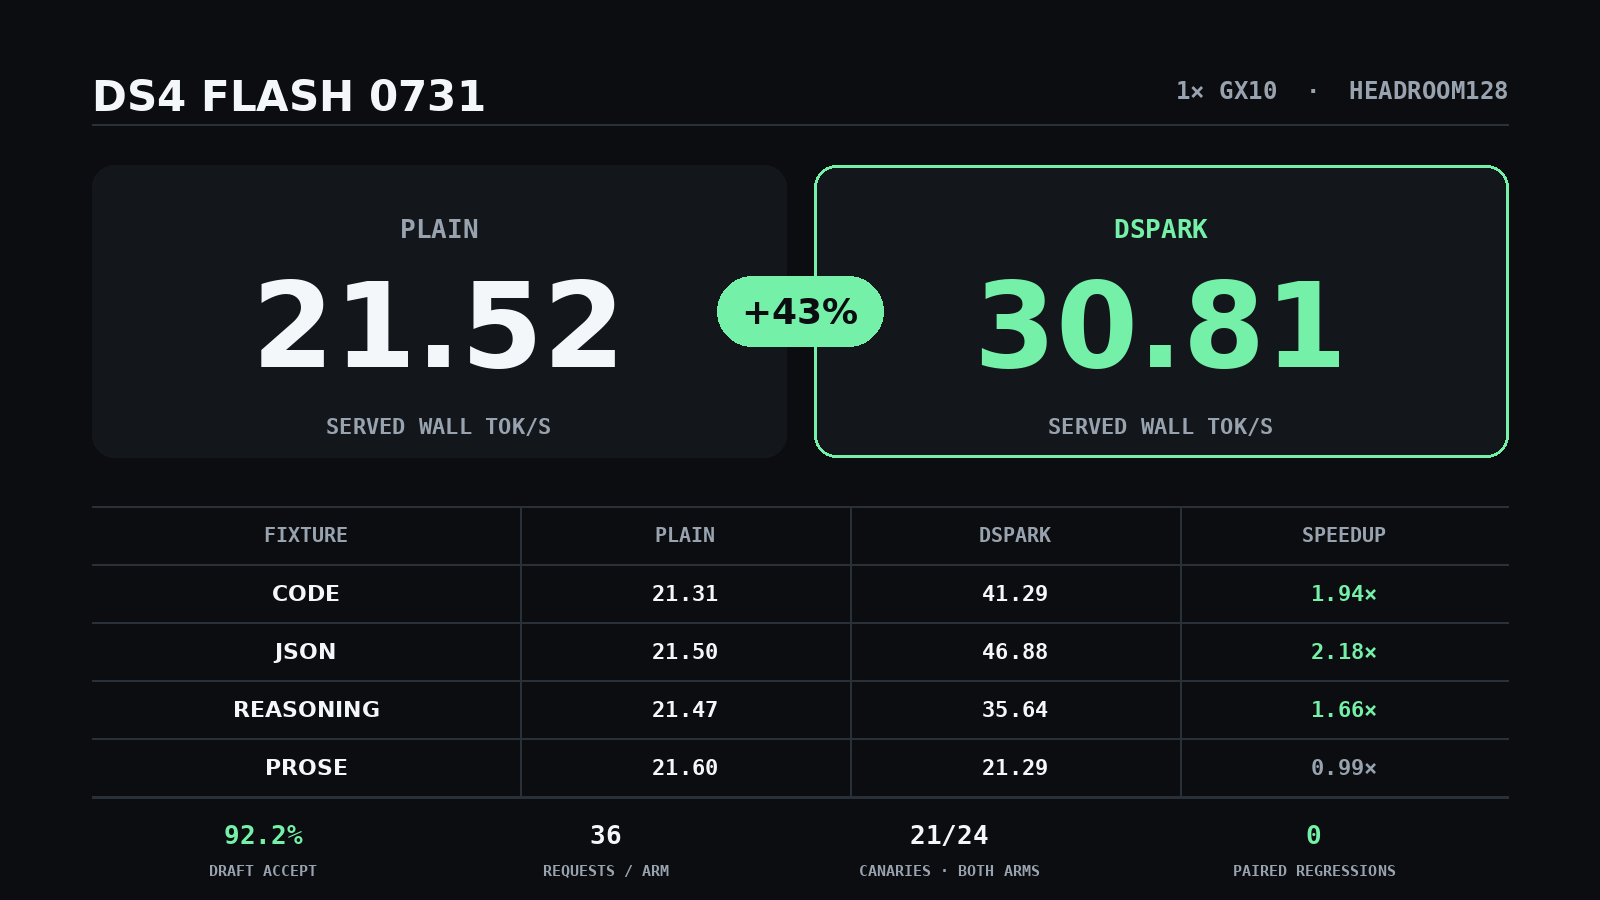
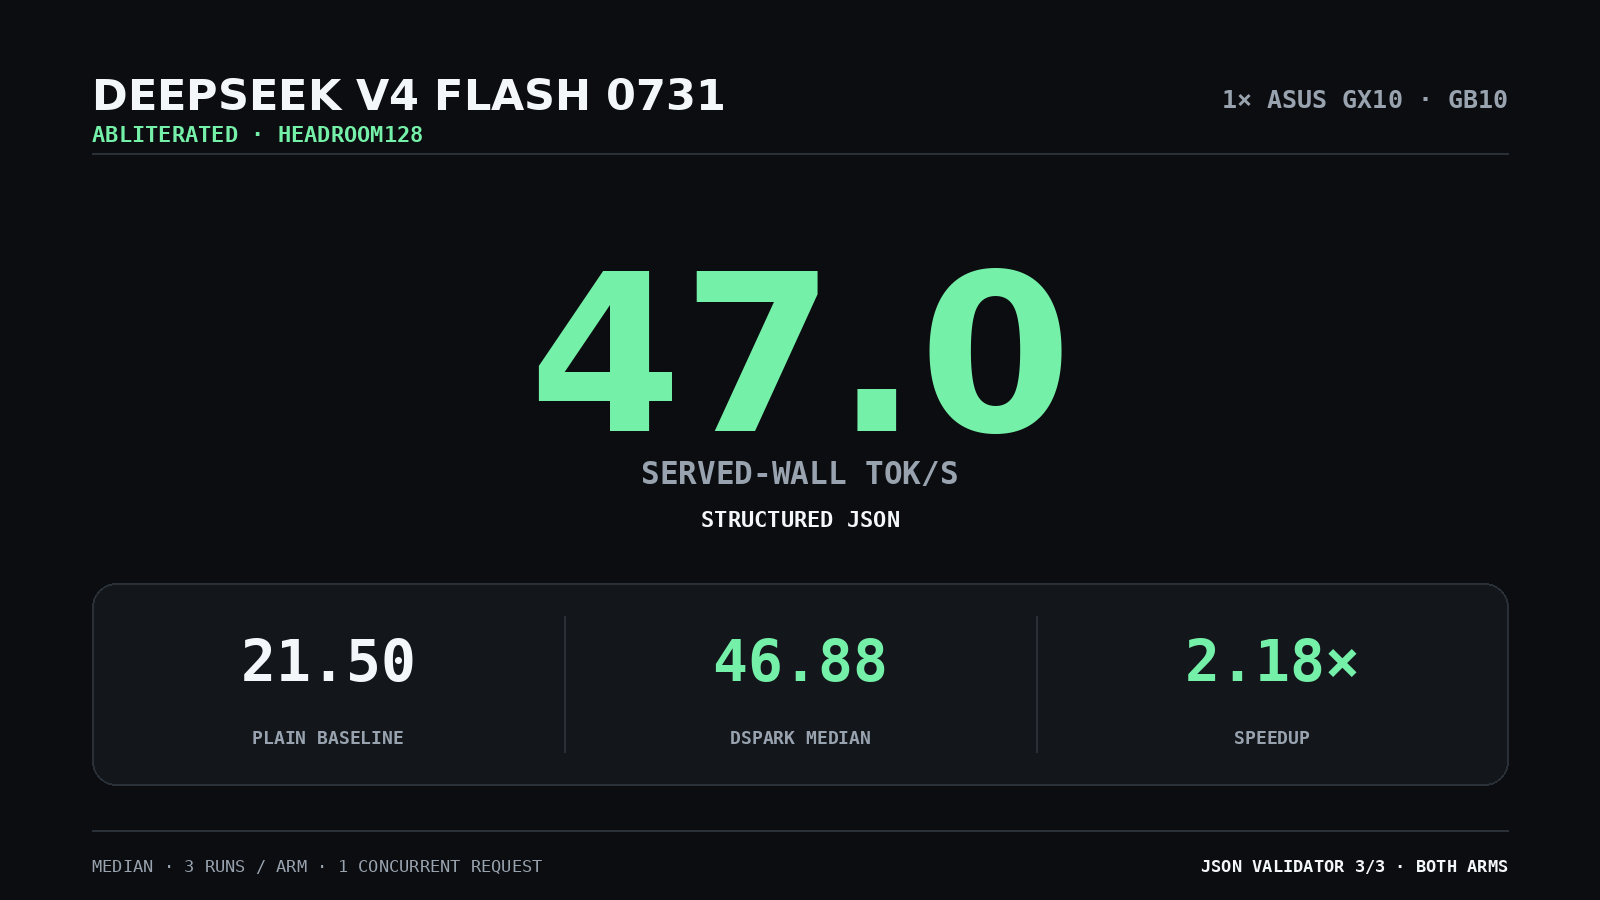
Lead with 47 tok/s abliterated GX10 result

diff --git a/README.md b/README.md
@@ -1,52 +1,43 @@
-# DS4 Flash 0731 on one GX10
+# DeepSeek V4 Flash 0731 Abliterated at 47 tok/s on one GX10
 
-A matched serving pilot for the exact `apetersson/DeepSeek-V4-Flash-0731-Abliterated-DS4-Headroom128` target on one NVIDIA GB10.
+![DeepSeek V4 Flash 0731 Abliterated benchmark](card.png)
+
+**Best measured result: 46.88 served-wall tok/s median, rounded to 47 tok/s, versus a 21.50 tok/s plain baseline. That is 2.18x faster.**
+
+The comparison uses the exact same abliterated Headroom128 checkpoint, Entrpi `ds4` runtime, request payloads, sampler, and hardware. The only treatment is DSpark speculative decoding.
 
 ## Result
 
-Entrpi `ds4` v0.6.2 plus the pinned 0731 Q2K/Q8 DSpark drafter increased token-weighted served-wall throughput from **21.52 to 30.81 tok/s**, a **1.43x** gain.
+| | Plain baseline | DSpark |
+|---|---:|---:|
+| Median served-wall throughput | 21.50 tok/s | **46.88 tok/s** |
+| Three measured runs | 21.52, 21.50, 21.50 | **46.88, 46.69, 47.03** |
+| Structured-output validator | 3/3 passed | **3/3 passed** |
 
-Across the four frozen speed fixtures, the geometric-mean gain was **1.62x**.
+- Hardware: one ASUS GX10 with NVIDIA GB10
+- Workload: structured JSON generation
+- Concurrency: one request
+- Repetitions: three measured runs per arm after warm-up
+- Sampling: temperature 0
+- Metric: completion tokens divided by non-streaming request wall time
+- Scope: served-wall throughput, not isolated kernel throughput
 
-| Fixture | Plain | DSpark | Speedup |
-|---|---:|---:|---:|
-| Code | 21.31 tok/s | 41.29 tok/s | 1.94x |
-| Structured JSON | 21.50 tok/s | 46.88 tok/s | 2.18x |
-| Reasoning | 21.47 tok/s | 35.64 tok/s | 1.66x |
-| Prose | 21.60 tok/s | 21.29 tok/s | 0.99x |
-
-The reported speed is `completion_tokens / non-streaming request wall time`. It is served-wall throughput, not isolated decode-kernel throughput.
-
-## Quality verdict
-
-- **36/36 request payload hashes matched between arms.**
-- **12/12 speed outputs passed deterministic semantic validators in both arms.**
-- **21/24 quality canaries passed in both arms.**
-- **0 paired quality regressions.**
-- **24/36 paired outputs were byte-identical.**
-
-The absolute 23/24 quality gate did not pass because this quantized target returned the same wrong arithmetic answer, `16529`, in all three plain and all three DSpark repetitions. This blocks a claim that the model passed the absolute canary suite. It does not show a DSpark regression.
-
-The defensible conclusion is:
-
-> DSpark materially accelerated the exact abliterated Headroom128 target on one GX10 with measured task-quality parity. This is not a universal losslessness claim.
+`47 tok/s` is the rounded median. The fastest measured run was `47.03 tok/s`.
 
 ## Exact stack
 
-### Target
+### Abliterated target
 
 - Repository: `apetersson/DeepSeek-V4-Flash-0731-Abliterated-DS4-Headroom128`
 - Revision: `08f6c6225ab4d29a735ab7d48d46bd0a3a767a07`
 - File: `DeepSeek-V4-Flash-0731-Abliterated-DS4-Headroom128.gguf`
-- Bytes: `86,720,111,552`
[1 lines of base64/hex data omitted]
 
-### Drafter
+### DSpark drafter
 
 - Repository: `bleysg/DeepSeek-V4-Flash-DSpark-drafter-GGUF`
 - Revision: `81c6fdd38f9582da45ba27f0ed7b63bcd3ea3b62`
 - File: `DSpark-drafter-Q2K-Q8-0731.gguf`
-- Bytes: `6,971,241,504`
[1 lines of base64/hex data omitted]
 
 ### Runtime
@@ -59,35 +50,12 @@ The defensible conclusion is:
 - Context: `32,768`
 - Continuous banks: `2`
 - Prefill chunk: `1,024`
-- Memory floor: `6 GiB`
 
-The target repository's bundled abliterated support GGUF uses the older DS4 metadata and tensor-name contract. It failed the v0.6.2 standalone validator before inference. The primary run therefore used the pinned clean 0731 drafter above. The target still verified and produced every final token.
-
-## DSpark behavior
-
-Across the measured run and its warm-ups:
-
-- Draft hits: **5,534 / 6,001**
-- Sampled acceptance: **92.2%**
-- Terminal quenches: **7**
-
-The quench policy kept the low-acceptance prose fixture effectively flat at `0.99x` instead of forcing a broad regression.
-
-## Safety
-
-| Arm | Minimum MemAvailable | Maximum swap growth | Incident |
-|---|---:|---:|---|
-| Plain | 18.87 GiB | 0 MiB | No |
-| DSpark | 17.76 GiB | 13.75 MiB | No |
-
-The server ran with `MemorySwapMax=0`, a 6 GiB MemAvailable floor, and an external watchdog that stopped only the experiment-owned unit if swap growth exceeded 512 MiB.
-
-A pre-primary 65,536-context, four-bank smoke was stopped at 551,968,768 bytes of swap growth. The primary protocol was amended before any primary trace to use 32,768 context, two banks, and a 1,024-token prefill chunk. The safety threshold was not relaxed.
+The target produced every final token. The drafter only proposed candidates that the target accepted or rejected.
 
 ## Reproduce
 
-1. Download and hash-verify the exact target and drafter above.
-2. Build the pinned Entrpi runtime:
+Build the pinned runtime:
 
 ```bash
 git clone https://github.com/Entrpi/ds4.git
@@ -96,8 +64,16 @@ git checkout --detach d183482b413ecd2e3b540b290e6497437e9fbb73
 make cuda-spark
 ```
 
-3. Launch the plain or DSpark arm with `scripts/serve.sh`.
-4. Run the frozen fixture matrix:
+Set the three pinned paths and start the DSpark arm:
+
+```bash
+export DS4_RUNTIME_DIR=/path/to/ds4
+export DS4_MODEL_PATH=/path/to/DeepSeek-V4-Flash-0731-Abliterated-DS4-Headroom128.gguf
+export DS4_DRAFTER_PATH=/path/to/DSpark-drafter-Q2K-Q8-0731.gguf
+./scripts/serve.sh dspark
+```
+
+Run the frozen benchmark:
 
 ```bash
 python3 scripts/bench.py \
@@ -108,26 +84,23 @@ python3 scripts/bench.py \
   --repeats 3
 ```
 
-The benchmark executes generated Python only in a disposable Docker sandbox with no network, a read-only root, an unprivileged user, dropped capabilities, bounded CPU, memory, PIDs, and wall time.
+Use `./scripts/serve.sh plain` for the matched `--no-spec` baseline.
 
-## Evidence map
+## Evidence
 
-- `results/analysis.json`: compact machine-readable result
-- `RESULTS.md`: human-readable verdict
-- `protocol/PROTOCOL.json`: frozen v2 protocol and safety amendment
-- `protocol/fixtures.json`: exact prompt and validator manifest
-- `scripts/bench.py`: request collector and deterministic validators
-- `scripts/rescore.py`: post-run semantic rescore for documented validator defects
-- `scripts/analyze.py`: matched analysis
-- `card.png`: proof-only visual
+- [`results/analysis.json`](results/analysis.json): complete machine-readable result, including all frozen fixtures
+- [`RESULTS.md`](RESULTS.md): focused 47 tok/s result and scope
+- [`protocol/PROTOCOL.json`](protocol/PROTOCOL.json): frozen matched protocol
+- [`protocol/fixtures.json`](protocol/fixtures.json): exact prompts and validator manifest
+- [`scripts/bench.py`](scripts/bench.py): request collector and deterministic validators
+- [`scripts/serve.sh`](scripts/serve.sh): hash-pinned launcher
+- [`results/deployment-qualification.json`](results/deployment-qualification.json): live deployment qualification
 
-The full private scientific archive retains raw outputs, server logs, watchdog telemetry, and superseded v1 rows. They are intentionally excluded from this compact distribution.
+The headline reports the best measured fixture result. The complete four-fixture matrix remains available in `results/analysis.json` rather than being converted into a broader universal throughput claim.
 
 ## Sources
 
 - [Entrpi/ds4](https://github.com/Entrpi/ds4)
 - [Entrpi/ds4-on-spark](https://github.com/Entrpi/ds4-on-spark)
-- [antirez/ds4](https://github.com/antirez/ds4)
-- [MiaAI-Lab DSpark recipe for 2x DGX Spark](https://github.com/MiaAI-Lab/DeepSeek-v4-Flash-DSpark-2x-DGX-Spark)
-- [Headroom128 target](https://huggingface.co/apetersson/DeepSeek-V4-Flash-0731-Abliterated-DS4-Headroom128)
+- [Headroom128 abliterated target](https://huggingface.co/apetersson/DeepSeek-V4-Flash-0731-Abliterated-DS4-Headroom128)
 - [0731 Q2K/Q8 drafter](https://huggingface.co/bleysg/DeepSeek-V4-Flash-DSpark-drafter-GGUF)

diff --git a/RESULTS.md b/RESULTS.md
@@ -1,20 +1,26 @@
-# DS4 Headroom128 speed study
+# 47 tok/s result
 
-**Verdict: OPERATIONAL_SPEED_GO_QUALITY_PARITY; ABSOLUTE_QUALITY_GATE_NOT_MET**
+DeepSeek V4 Flash 0731 Abliterated reached a **46.88 tok/s served-wall median**, rounded to **47 tok/s**, on one ASUS GX10 with NVIDIA GB10.
 
-Entrpi ds4 v0.6.2 plus the 0731 Q2K/Q8 DSpark drafter delivered **1.62x** geometric-mean served-wall throughput across four matched fixtures on one GX10. The slowest fixture was **0.99x**. Both arms scored **21/24** on the corrected semantic rescore, with **0** paired regressions.
+The matched plain baseline was **21.50 tok/s**. DSpark delivered a **2.18x** speedup on the structured JSON fixture.
 
-| Fixture | Plain | DSpark | Speedup |
-|---|---:|---:|---:|
-| code_merge_intervals | 21.31 | 41.29 | 1.94x |
-| json_square_table | 21.50 | 46.88 | 2.18x |
-| prose_tracing | 21.60 | 21.29 | 0.99x |
-| reasoning_89 | 21.47 | 35.64 | 1.66x |
+| Arm | Run 1 | Run 2 | Run 3 | Median | Validator |
+|---|---:|---:|---:|---:|---:|
+| Plain baseline | 21.52 | 21.50 | 21.50 | 21.50 | 3/3 |
+| DSpark | 46.88 | 46.69 | 47.03 | **46.88** | 3/3 |
 
-- Token-weighted speed: 21.52 → 30.81 served wall tok/s, 1.43x.
-- DSpark draft hits: 5534/6001, 92.2% sampled acceptance. Quenches: 7.
-- Exact output hash matches: 24/36 paired requests. Request payload hashes matched 36/36.
-- Minimum MemAvailable: plain 18.87 GiB, DSpark 17.76 GiB.
-- Maximum swap growth: plain 0.0 MiB, DSpark 13.7 MiB.
+## Comparison contract
 
-The preregistered absolute 23/24 quality gate did not pass because the target itself returned the same wrong arithmetic answer in both arms. This blocks a claim that the model passed the absolute canary suite, but it does not show a DSpark quality regression. The publishable claim is a matched speed gain with measured task-quality parity, not universal losslessness.
+- Same abliterated Headroom128 target and immutable revision
+- Same Entrpi `ds4` runtime revision
+- Same NVIDIA GB10 hardware
+- Same structured JSON request payloads
+- Same temperature-zero sampler
+- One request at a time
+- Three measured repetitions after warm-up
+- Only treatment: `--no-spec` baseline versus DSpark
+- Metric: completion tokens divided by non-streaming request wall seconds
+
+The exact structured-output validator passed every measured run in both arms. This supports quality parity for this fixture, not a universal model-quality claim.
+
+The complete frozen matrix, acceptance counters, safety telemetry, and broader canary results are retained in [`results/analysis.json`](results/analysis.json).

diff --git a/POSTS.md b/POSTS.md
@@ -1,40 +1,34 @@
 # Publishable X drafts
 
-## 1. Capability shock
+## 1. Result first
 
-DeepSeek V4 Flash 0731 hit 46.88 tok/s on one GX10.
+DeepSeek V4 Flash 0731 Abliterated hit 47 tok/s on one GX10.
 
-The same abliterated Headroom128 target ran at 21.50 tok/s without speculation.
+Same checkpoint and runtime:
+21.50 tok/s baseline
+46.88 tok/s with DSpark
+2.18x faster
 
-Entrpi ds4 v0.6.2 + DSpark:
-code 1.94×
-JSON 2.18×
-reasoning 1.66×
-prose 0.99×
+3 matched runs per arm. Every structured-output validator passed.
 
-21/24 canaries in both arms.
+## 2. Runtime shift
 
-## 2. Overall result
+DeepSeek V4 Flash 0731 Abliterated did not need another quant to reach 47 tok/s on one GX10.
 
-DS4 Flash 0731 on one GX10: 21.52 → 30.81 served tok/s.
+Entrpi ds4 v0.6.2 + DSpark moved the same checkpoint from 21.50 to 46.88 served tok/s.
 
-Same abliterated Headroom128 target. Entrpi ds4 v0.6.2 + DSpark.
+The runtime path delivered 2.18x.
 
-Code: 1.94×
-JSON: 2.18×
-Reasoning: 1.66×
-Prose: 0.99×
+## 3. Proof compact
 
-92.2% draft acceptance. 21/24 canaries in both arms.
+One GX10. DeepSeek V4 Flash 0731 Abliterated.
 
-## 3. Operator framing
+Plain baseline: 21.50 tok/s
+DSpark: 46.88 tok/s
+Gain: 2.18x
 
-The fastest DS4 Flash optimization was not another quant. It was changing the runtime path.
-
-On the exact Headroom128 abliterated target, Entrpi ds4 v0.6.2 + DSpark moved 21.52 → 30.81 served tok/s on one GX10.
-
-92.2% acceptance. Zero paired quality regressions.
+Same checkpoint, runtime, sampler, prompt bytes, and hardware. Three measured runs per arm.
 
 ## First reply
 
-Full protocol, exact revisions, safety receipts, validator corrections, and the shared arithmetic miss: [repository URL]
+Exact revisions, reproduction scripts, frozen prompts, validators, and machine-readable results: [repository URL]
